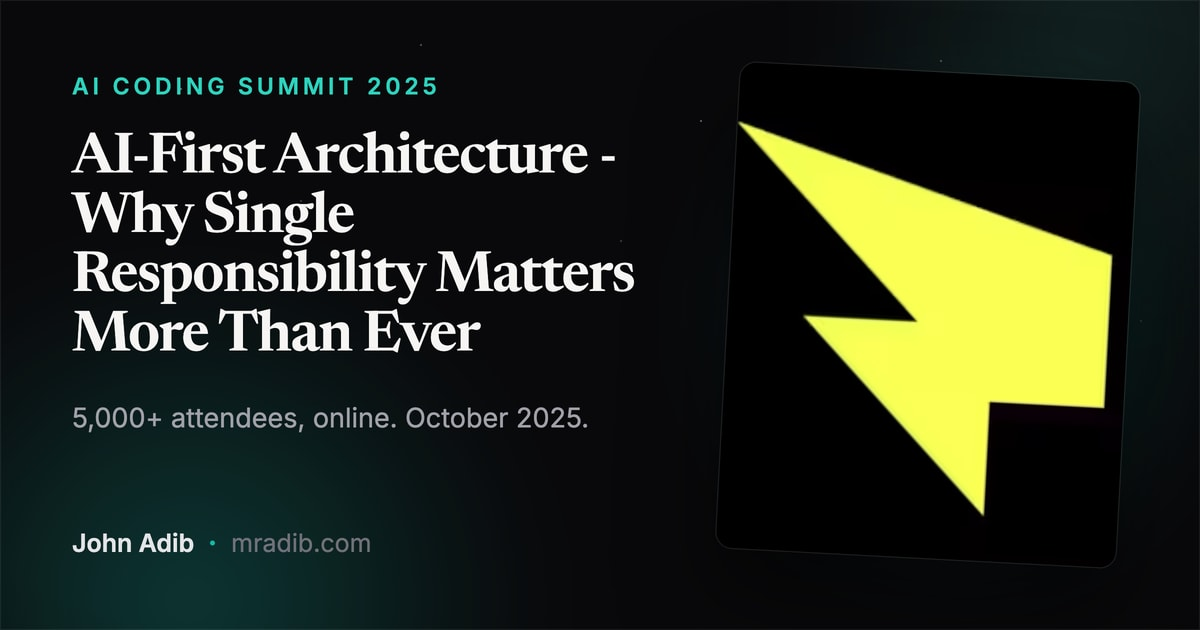
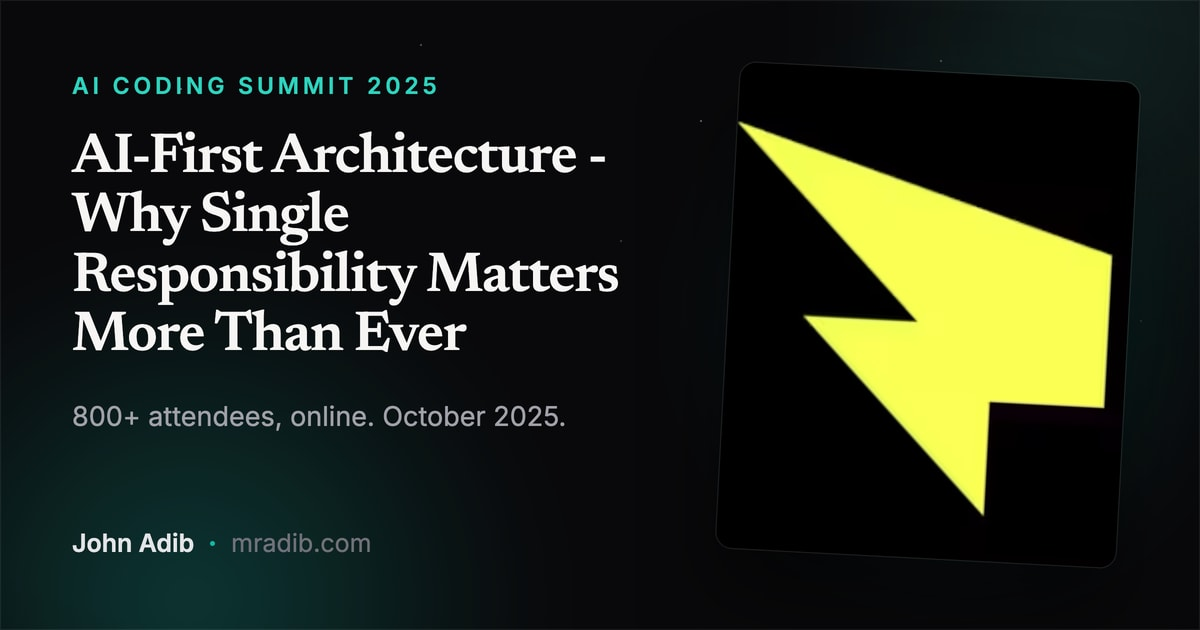
fix: correct AI Coding Summit audience to 800+
The 5,000+ figure came from an early landing page and was not accurate.
817 people joined, so 800+ is the number we publish.

diff --git a/src/app/(en)/talks/page.tsx b/src/app/(en)/talks/page.tsx
@@ -18,7 +18,7 @@ import { TalksTopics } from "./_sections/talks-topics";
 export const metadata: Metadata = {
 	title: "Talks & Speaking",
 	description:
-		"John Adib speaks on AI-first development and engineering leadership: AI Coding Summit (5,000+ engineers), React Advanced at Figma, JavaScript London.",
+		"John Adib speaks on AI-first development and engineering leadership: AI Coding Summit (800+ engineers), React Advanced at Figma, JavaScript London.",
 	...ogMetadata("/talks"),
 };
 

diff --git a/src/app/(en)/talks/_sections/talks-faq-data.ts b/src/app/(en)/talks/_sections/talks-faq-data.ts
@@ -11,7 +11,7 @@ export const talksFaq: IFaqQA[] = [
 	{
 		id: "formats",
 		q: "What formats do you do?",
-		a: "Conference talks, hands-on workshops, and panels. In person I have spoken to rooms of 200+ people, up to 300, and online to audiences of more than 5,000.",
+		a: "Conference talks, hands-on workshops, and panels. In person I have spoken to rooms of 200+ people, up to 300, and online to audiences of 800+.",
 	},
 	{
 		id: "location",

diff --git a/src/app/(en)/about/_sections/about-talks.tsx b/src/app/(en)/about/_sections/about-talks.tsx
@@ -19,7 +19,7 @@ export function AboutTalks() {
 			<p>
 				Walking off that stage I knew: if I can do this, I can do more. There
 				has been at least one talk every quarter since, from Cloudflare to the
-				AI Coding Summit and its 5,000+ engineers, all listed on the{" "}
+				AI Coding Summit and its 800+ engineers, all listed on the{" "}
 				<Link href="/talks" className={chapterLinkClass}>
 					talks page
 				</Link>

diff --git a/src/components/home/home-now.tsx b/src/components/home/home-now.tsx
@@ -35,7 +35,7 @@ export function HomeNow() {
 							releases taken from <Strong>monthly to weekly</Strong>.
 						</p>
 						<p className="mt-4 max-w-2xl text-lg text-zinc-300">
-							I took the thesis to the <Strong>AI Coding Summit</Strong>, 5,000+
+							I took the thesis to the <Strong>AI Coding Summit</Strong>, 800+
 							engineers, and to <Strong>React Advanced London</Strong> at Figma.
 						</p>
 						<Link

diff --git a/src/data/talks/talks.ts b/src/data/talks/talks.ts
@@ -68,7 +68,7 @@ export const talks: ITalk[] = [
 		logo: "/talks/logos/ai-coding-summit.avif",
 		city: "Online",
 		date: "2025-10-23",
-		audience: "5,000+ attendees",
+		audience: "800+ attendees",
 		summary:
 			"Why the single responsibility principle becomes critical in AI-first architectures, and how to design systems that work seamlessly with AI tools.",
 		image: "/talks/covers/ai-first-architecture.png",

diff --git a/src/data/og/og-cards-en.ts b/src/data/og/og-cards-en.ts
@@ -77,7 +77,7 @@ export const ogCardsEn: IOgCard[] = [
 		eyebrow: "Speaking",
 		headline: "Stages that define AI-first engineering.",
 		proof:
-			"AI Coding Summit, 5,000+ engineers. React Advanced at Figma. JavaScript London.",
+			"AI Coding Summit, 800+ engineers. React Advanced at Figma. JavaScript London.",
 	},
 	{
 		slug: "resume-review",

diff --git a/docs/advisor/playbooks/homepage/04-now.md b/docs/advisor/playbooks/homepage/04-now.md
@@ -9,7 +9,7 @@ industry's biggest shift, and the stages prove people listen.
 
 ## Message
 
-Today I lead teams that build AI-first, and 5,000+ engineers came to
+Today I lead teams that build AI-first, and 800+ engineers came to
 hear how.
 
 ## Facts
@@ -18,7 +18,7 @@ hear how.
   docs/profile/experience.md.
 - Releases taken from monthly to weekly. Source:
   docs/profile/experience.md.
-- AI Coding Summit 2025: 5,000+ engineers, recording available. Source:
+- AI Coding Summit 2025: 800+ engineers, recording available. Source:
   docs/speaking/talks.md.
 - React Advanced London 2025, at Figma. Source: docs/speaking/talks.md.
 - Cut from today's panel: the 3-day auth build and the 90 design-system
@@ -33,7 +33,7 @@ Already shipped and voice-true.
 
 Gist: "I lead engineering in London with AI in the loop: three AI
 reviewers on every pull request, releases taken from monthly to weekly.
-I took the thesis to the AI Coding Summit, 5,000+ engineers, and to
+I took the thesis to the AI Coding Summit, 800+ engineers, and to
 React Advanced London at Figma."
 
 ## Path deeper

diff --git a/docs/advisor/decisions.md b/docs/advisor/decisions.md
@@ -4,6 +4,12 @@ Append-only. Newest first. Date, decision, why. The shared log for the
 whole advisory board: brand (docs/advisor) and design (docs/designer). Log
 every new direction John gives in any session.
 
+## 2026-08-18, AI Coding Summit audience is 800+, not 5,000+
+
+The 5,000+ figure came from an early GitNation landing page and was not
+accurate. 817 people joined the event. Publish 800+. Source of truth is
+docs/speaking/talks.md, then src/data/talks/talks.ts.
+
 ## 2026-07-24, resume guide review round from real use
 
 A large batch of fixes John gathered while reading the guide and reviewing CVs.

diff --git a/docs/advisor/positioning.md b/docs/advisor/positioning.md
@@ -21,7 +21,7 @@ whose story arc reads inevitable:
 6. Named The World's Most Influential Mentor (ADPList100, selected from
    32,000+ mentors across 140+ countries) and #1 Mentor in Europe, 2024.
 7. On conference stages defining AI-first engineering: AI Coding Summit
-   (5,000+ engineers), React Advanced London at Figma's office, JavaScript
+   (800+ engineers), React Advanced London at Figma's office, JavaScript
    London.
 8. Leading engineering at Zapp in London while pioneering AI-first
    development: AI reviewers on every pull request, releases taken from

diff --git a/docs/speaking/talks.md b/docs/speaking/talks.md
@@ -25,7 +25,7 @@ Each talk has its own page at the root URL. Talks are separate from articles.
 ### AI-First Architecture: Why Single Responsibility Matters More Than Ever
 
 - Event: AI Coding Summit 2025 (GitNation), online, 23 October 2025.
-- Audience: 5,000+ engineers. An 18 minute recording exists on GitNation.
+- Audience: 800+ engineers (817 joined). An 18 minute recording exists on GitNation.
 - Talk page: /ai-first-architecture-why-single-responsibility-matters-more-than-ever
 - Speaker certificate: GitNation Foundation, Oct 2025, ID 31526.
 

diff --git a/docs/advisor/audiences.md b/docs/advisor/audiences.md
@@ -8,7 +8,7 @@ first. Serve the rest only when it costs the primary nothing.
 They heard the name, searched it, and landed here. They give the site 5
 seconds. In those 5 seconds they must feel: this guy is different, nothing
 is impossible for him, what a story. They respect evidence of scale ($1M
-raised, one million users, 5,000+ audiences), institutional recognition (UK
+raised, one million users, 800+ audiences), institutional recognition (UK
 government, ADPList100), and visible momentum. They are allergic to CV
 language and hedging.
 

diff --git a/docs/advisor/playbooks/talks.md b/docs/advisor/playbooks/talks.md
@@ -6,7 +6,7 @@ Talks are leadership evidence. A talk page must make an organizer think
 ## Framing rules
 
 - Lead with the stage: event name, venue prestige, audience size. "AI Coding
-  Summit, 5,000+ engineers" comes before any abstract.
+  Summit, 800+ engineers" comes before any abstract.
 - Recording first. If a recording exists, it is the hero of the page. If
   slides exist, link the PDF from public/talks/ with a clean URL.
 - Name the host when it adds prestige: hosted at Figma's London office,
